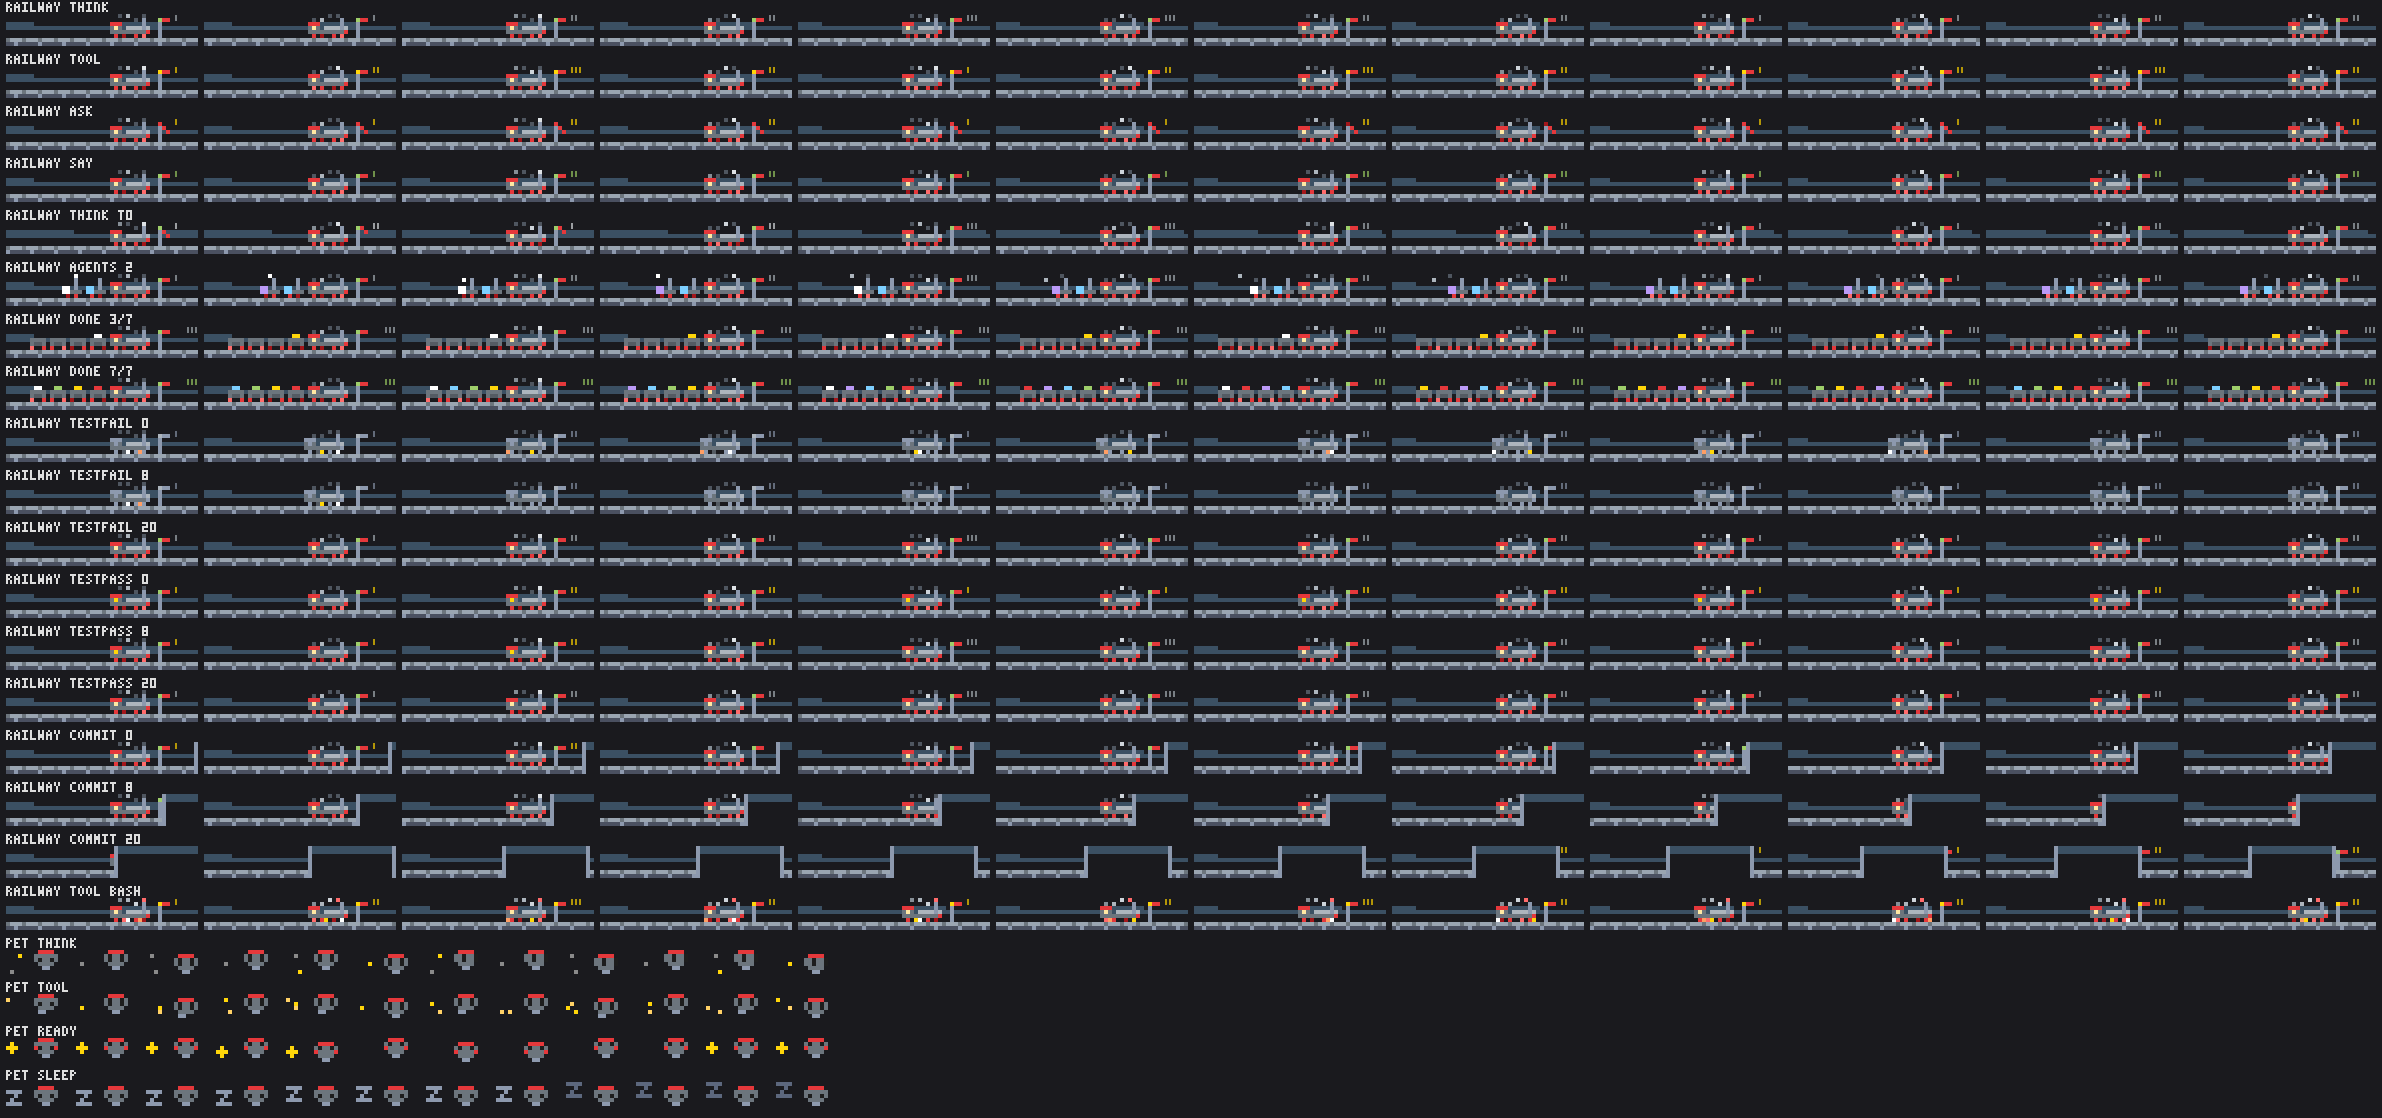
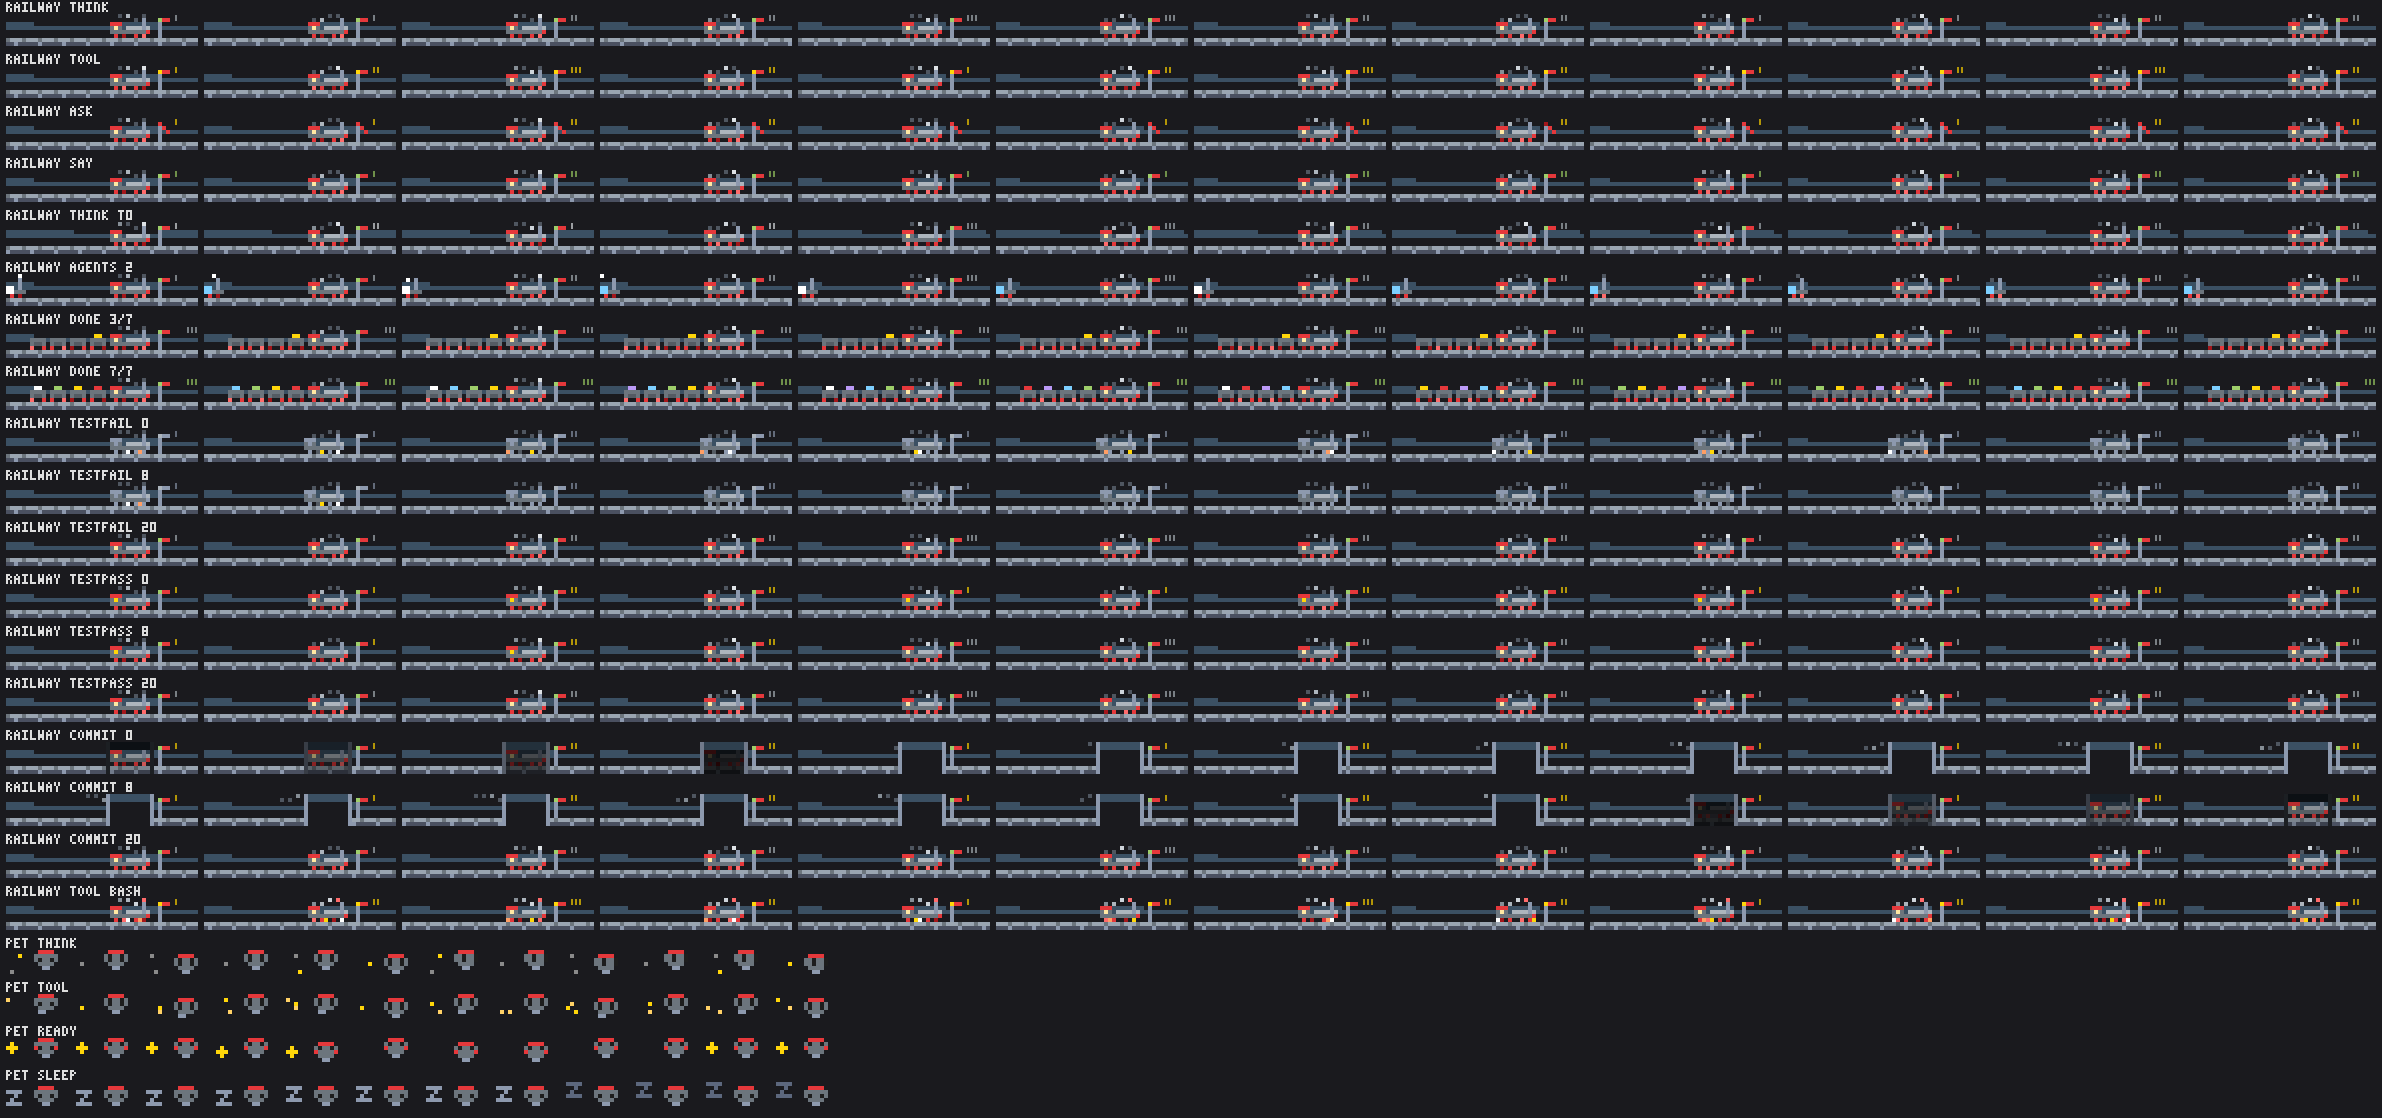
showtime: railway — tunnel mouth around the engine, arm on ask only, agents in fixed slots (review fixes); a commit fades a stone-framed mouth in around the engine over four frames, holds it dark twelve with the steam rolling out of its back mouth a cell a frame (the puffs living a frame longer each

diff --git a/showtime/hooks/themes/railway.ts b/showtime/hooks/themes/railway.ts
@@ -1,32 +1,15 @@
 // Theme: railway. Its scene, its words and its pet.
 //
-// The scene: a steam train (#6c757d, #e5383b accents) standing in the right half of the band and
-// facing right, the world scrolling toward it: dim hills far (pixel rows 2–3, a quarter of the speed),
-// the rails and the bridge's piers near (rows 6–7, a cell a frame), and its own smoke drifting back
-// along the top rows a cell a frame. A puff is born over the funnel every other frame; one in six is a
-// full puff while it idles, one in four in a tool (in the tool's colour), every one on bash, the rest
-// wisps. Its wheels turn on a four-frame cycle in a tool (slowly otherwise), sparks fly on bash. A
-// carriage per task (six at most, fewer on a narrow band, floor-scaled) trails behind it, loaded with a
-// block as the task lands, the newest flashing, all rolling colours at 100%; a `done/total` readout
-// sits at the top right. A signal stands ahead of the engine: its arm drops over three frames while a
-// permission waits and rises over four as the next act begins, its lamp red while asking. A sign right
-// of it reads the act (dots, `?`, notes, the tool's mark). Each subagent (four at most) is a small
-// engine of its own hue at the back of the train, puffing a greeting as it joins and a wisp every
-// twelve frames after. A failed test greys the train, sparks at its wheels and jolts it a cell for ten
-// frames under a `×`; a passed test turns the window and the loads gold under a `★`; a commit sends a
-// tunnel in from the right edge, a cell a frame, that swallows the signal and the train (the engine
-// dark twelve frames) and lets them out the other side.
+// A steam train facing right with the world scrolling toward it (hills far at a quarter, track and
+// bridge near and smoke a cell a frame), a carriage per task, a signal whose arm drops on ask, an
+// agent's engine per subagent in a fixed slot at the back, and a tunnel mouth around the engine on a
+// commit (in four frames, dark twelve, out four).
 //
-// Motion rules (tests/scenes.test.ts): pixel row 3 (the hills) and rows 6–7 (the track) are filled
-// across the width, so the test sees cell rows 0 and 2 only; every vehicle fills row 4 across its own
-// width and stands a column apart from the next, so wheels, sparks and loads change colour, never ink,
-// and a leaving agent's engine only disappears. Every funnel stands in rows 1–3, a run start in cell
-// row 0 that each puff is born over and leaves a cell at a time, and all the puffs drift at the
-// scroll's pace on schedules of `t` alone, so they merge and part only with each other and the
-// funnels; the jolt moves the bodies, never the smoke. The signal's lamp never goes out (it blinks in
-// colour) and the sign changes its ink every other frame. The tunnel is empty cells between two stone
-// columns under a hill roof, so what it hides and uncovers always appears beside a column that stood
-// a cell away the frame before.
+// Motion rules (tests/scenes.test.ts): pixel row 3 (the hills) and rows 6–7 (the track) fill the width,
+// so the test sees cell rows 0 and 2 only; every vehicle fills row 4 across its width a column apart
+// from the next, so wheels, sparks and loads change colour, never ink. Funnels stand in rows 1–3, a run
+// start each puff is born over and leaves a cell at a time on schedules of `t` alone; the jolt moves
+// the bodies, never the smoke. The lamp never goes out and the sign changes its ink every other frame.
 import { canvas, cells, draw, frame, mod, noise, plot, put } from '../cells'
 import type { Canvas, Grid } from '../cells'
 import { SCENE_ROWS } from '../draw'
@@ -46,8 +29,8 @@ const MAX_CARS = 6
 const AGENT_FUNNEL_X = 3
 const AGENT_PITCH = 6
 const MAX_AGENTS = 4
-/** Columns kept free behind the carriages for agent engines on a narrow band. */
-const AGENT_RESERVE = 6
+/** Columns the carriages keep on a narrow band before the agents get slots. */
+const CARS_FIRST = 15
 const HILL_Y = 2
 const RAIL_Y = 6
 const TICK_PITCH = 4
@@ -59,13 +42,15 @@ const PUFF_EVERY = { idle: 6, tool: 4, bash: 2 }
 const WISP_EVERY = 12
 const WISP_LIFE = 4
 const GREET_FRAMES = 8
-/** The signal arm's level by `actAge`: dropping while asking, rising as the next act begins. */
-const ARM_RISE = [2, 1, 1, 0]
+/** The signal arm's level by `actAge` while a permission waits: horizontal, half down, down. */
+const ARM_DROP = [0, 1, 1, 2]
 const FAIL_FRAMES = 20
 const JOLT_FRAMES = 10
 const PASS_FRAMES = 12
-/** The tunnel's length: the engine and twelve more cells, so the engine is dark for twelve frames. */
-const TUNNEL_W = ENGINE_W + 12
+/** The tunnel mouth around the engine: fading in over four frames, dark twelve, fading out over four. */
+const FADE_FRAMES = 4
+const DARK_FRAMES = 12
+const COMMIT_FRAMES = 2 * FADE_FRAMES + DARK_FRAMES
 const DONE_FLASH_FRAMES = 8
 const DONE_ROLL_FRAMES = 16
 const TURN_FRAMES = 4
@@ -122,13 +107,22 @@ const paint = (c: string, isFail: boolean) => (isFail ? DULL[c] ?? c : c)
 const toned = (colors: Record<string, string>, isFail: boolean) =>
   Object.fromEntries(Object.entries(colors).map(([k, c]) => [k, paint(c, isFail)]))
 
-/** The engine's left column, how many carriages trail it and how many agent engines fit behind them. */
-function layout(w: number, s: Signals): { engineX: number; cars: number; carsL: number; agents: number } {
+/** The engine, carriages and agent slots by the width alone: the slots sit left of the widest carriage
+ * zone, so a change of `total` never moves an agent engine. */
+function layout(w: number, s: Signals): { engineX: number; cars: number; slotsL: number; agents: number } {
   const engineX = Math.max(0, w - ENGINE_W - RIGHT_ZONE)
-  const cars = Math.min(s.total, MAX_CARS, Math.max(0, Math.floor((engineX - AGENT_RESERVE) / CAR_PITCH)))
-  const carsL = engineX - cars * CAR_PITCH
-  const agents = Math.min(s.agents, MAX_AGENTS, Math.max(0, Math.floor(carsL / AGENT_PITCH)))
-  return { engineX, cars, carsL, agents }
+  // One slot whenever an agent's engine fits at all, more once the carriages have their first columns.
+  const more = Math.floor((engineX - CARS_FIRST) / AGENT_PITCH)
+  const slots = Math.min(MAX_AGENTS, Math.max(engineX >= AGENT_PITCH ? 1 : 0, more))
+  const carsMax = Math.min(MAX_CARS, Math.max(0, Math.floor((engineX - slots * AGENT_PITCH) / CAR_PITCH)))
+  const slotsL = engineX - carsMax * CAR_PITCH
+  return { engineX, cars: Math.min(s.total, carsMax), slotsL, agents: Math.min(s.agents, slots) }
+}
+
+/** A `#rrggbb` colour at `f` of its brightness. */
+function shade(c: string, f: number): string {
+  const ch = (i: number) => Math.round(parseInt(c.slice(i, i + 2), 16) * f).toString(16).padStart(2, '0')
+  return '#' + ch(1) + ch(3) + ch(5)
 }
 
 /** The far hills: a silhouette on pixel rows 2–3, row 3 always filled, drifting at `far`. */
@@ -150,37 +144,37 @@ function track(cv: Canvas, t: number): void {
 }
 
 /** The engine's smoke: a puff born over the funnel at `fx` every other frame, drifting back a cell a
- * frame for eight; one in `every` a full puff in `color` fading to grey, the rest wisps (all wisps
- * while a failed test smarts). */
-function smoke(cv: Canvas, t: number, fx: number, every: number, color: string, isFail: boolean): void {
-  for (let age = mod(t, 2); age < PUFF_LIFE; age += 2) {
+ * frame for `life` frames; one in `every` a full puff in `color` fading to grey, the rest wisps (all
+ * wisps while a failed test smarts). */
+function smoke(cv: Canvas, t: number, fx: number, every: number, color: string, isFail: boolean, life: number): void {
+  for (let age = mod(t, 2); age < life; age += 2) {
     const full = !isFail && mod(t - age, every) === 0
-    plot(cv, fx - age, PUFF_ROWS[age]!, !full ? WISP : age < 2 ? color : SMOKE[age >> 1]!)
+    plot(cv, fx - age, frame(PUFF_ROWS, age), !full ? WISP : age < 2 ? color : SMOKE[Math.min(3, age >> 1)]!)
   }
 }
 
-/** The signal ahead of the engine: a pole with a lamp, its arm horizontal, dropped a level a frame
- * while a permission waits and rising over four frames as the next act begins. */
+/** The signal ahead of the engine: a pole with a lamp, its arm horizontal, dropping over four frames
+ * as a permission starts to wait and down until it is answered. */
 function signal(cv: Canvas, t: number, s: Signals, poleX: number, isFail: boolean): void {
   for (let y = 1; y <= 5; y++) plot(cv, poleX, y, STEEL)
-  const level = s.act === 'ask' ? Math.min(2, s.actAge) : s.actAge < ARM_RISE.length ? ARM_RISE[s.actAge]! : 0
+  const level = s.act === 'ask' ? frame(ARM_DROP, Math.min(s.actAge, ARM_DROP.length - 1)) : 0
   plot(cv, poleX + 1, level > 1 ? 2 : 1, paint(RED, isFail))
   plot(cv, poleX + 2, 1 + level, paint(RED, isFail))
   const lamp = s.act === 'ask' ? (mod(t, 8) < 6 ? RED : RED_DARK) : s.act === 'tool' ? GOLD : GREEN
   plot(cv, poleX, 1, isFail ? LIGHT : lamp)
 }
 
-/** The tunnel on a commit: its mouth in from the right edge a cell a frame, every pixel under it
- * cleared, a stone column at each end and a hill roof along the top rows. Returns its columns. */
-function tunnel(cv: Canvas, age: number): [number, number] {
-  const x0 = cv.w - 1 - age
-  const x1 = x0 + TUNNEL_W
+/** The tunnel mouth on a commit, around the engine from `x0` to `x1`, `f` of the way in: stone columns
+ * and a hill roof brighten as everything inside dims, cleared to dark at `f` = 1. */
+function tunnel(cv: Canvas, x0: number, x1: number, f: number): void {
   for (let x = Math.max(0, x0); x < Math.min(cv.w, x1); x++) {
-    for (let y = 0; y < cv.h; y++) cv.px[y * cv.w + x] = undefined
-    if (x === x0 || x === x1 - 1) for (let y = 0; y < cv.h; y++) plot(cv, x, y, STEEL)
-    else for (let y = 0; y < 2; y++) plot(cv, x, y, HILL)
+    const stone = x === x0 || x === x1 - 1
+    for (let y = 0; y < cv.h; y++) {
+      const i = y * cv.w + x
+      if (stone || y < 2) cv.px[i] = shade(stone ? STEEL : HILL, f)
+      else cv.px[i] = cv.px[i] && f < 1 ? shade(cv.px[i]!, 1 - f) : undefined
+    }
   }
-  return [x0, x1]
 }
 
 /** The sign right of the signal: the news first, else the act, dots while the act turns. Each changes
@@ -206,11 +200,14 @@ export function railwayScene(t: number, w: number, s: Signals): Grid {
   const isFail = s.news === 'testFail' && s.newsAge < FAIL_FRAMES
   const jolting = isFail && s.newsAge < JOLT_FRAMES
   const isPass = s.news === 'testPass' && s.newsAge < PASS_FRAMES
-  const isCommit = s.news === 'commit' && s.newsAge < w + TUNNEL_W
+  const isCommit = s.news === 'commit' && s.newsAge < COMMIT_FRAMES
   const allDone = s.total > 0 && s.done >= s.total
   const age = Math.min(s.actAge, s.toolAge)
-  const { engineX, cars, carsL, agents } = layout(w, s)
-  const lit = s.total > cars ? Math.floor(s.done * cars / s.total) : Math.min(s.done, cars)
+  const { engineX, cars, slotsL, agents } = layout(w, s)
+  const litOf = (done: number) => (s.total > cars ? Math.floor(done * cars / s.total) : Math.min(done, cars))
+  const lit = litOf(s.done)
+  // The newest load flashes only when this task lit a carriage (floor-scaled, not every task does).
+  const newLoad = lit > litOf(s.done - 1) && s.doneAge < DONE_FLASH_FRAMES
   // The jolt: the whole train a cell back on odd frames while the brakes screech.
   const dx = jolting && mod(s.newsAge, 2) === 1 ? -1 : 0
   const ex = engineX + dx
@@ -221,10 +218,10 @@ export function railwayScene(t: number, w: number, s: Signals): Grid {
   // Layer 1: the hills, far and slow; layer 2: the track, a cell a frame.
   hills(cv, t >> 2)
   track(cv, t)
-  // Layer 3: the agents' engines at the back, each puffing a wisp every twelve frames out of step; the
-  // newest flashes its cab and puffs a greeting as it joins (and again, harmlessly, when one leaves).
+  // Layer 3: the agents' engines in fixed slots, a wisp every twelve frames out of step; the newest flashes
+  // its cab and puffs a greeting as it joins (and again, harmlessly, when one leaves).
   for (let i = 0; i < agents; i++) {
-    const x = carsL - AGENT_PITCH * (i + 1)
+    const x = slotsL - AGENT_PITCH * (i + 1)
     const newest = i === agents - 1 && s.agentsAge < GREET_FRAMES
     const cab = newest && mod(s.agentsAge, 2) === 0 ? WHITE : paint(AGENT_HUES[i]!, isFail)
     draw(cv, x + dx, 1, AGENT, { ...toned(AGENT_COLORS, isFail), C: cab })
@@ -242,7 +239,7 @@ export function railwayScene(t: number, w: number, s: Signals): Grid {
     CAR_WHEELS.forEach((wx, k) => plot(cv, x + wx, 5, paint(frame(WHEEL_SPIN, spin + k + j), isFail)))
     if (j >= lit) continue
     let load = paint(LOADS[j % LOADS.length]!, isFail)
-    if (j === lit - 1 && s.doneAge < DONE_FLASH_FRAMES && mod(s.doneAge, 2) === 0) load = WHITE
+    if (j === lit - 1 && newLoad && mod(s.doneAge, 2) === 0) load = WHITE
     else if (allDone && s.doneAge < DONE_ROLL_FRAMES) load = frame(PALETTE, j + (s.doneAge >> 1))
     else if (isPass && mod(t, 2) === 0) load = GOLD
     plot(cv, x + 1, 2, load)
@@ -258,20 +255,22 @@ export function railwayScene(t: number, w: number, s: Signals): Grid {
   }
   // Layer 6: the smoke, in the tool's colour while one runs, unmoved by the jolt; layer 7: the signal.
   const every = bash ? PUFF_EVERY.bash : isTool ? PUFF_EVERY.tool : PUFF_EVERY.idle
-  smoke(cv, t, engineX + FUNNEL_X, every, isTool ? PUFF_TOOL[s.tool ?? 'other'] : SMOKE[0]!, isFail)
+  // On a commit the puffs live a frame longer each frame, then shorter: steam rolls out of the back mouth.
+  const life = PUFF_LIFE + (isCommit ? Math.min(s.newsAge, COMMIT_FRAMES - s.newsAge) : 0)
+  smoke(cv, t, engineX + FUNNEL_X, every, isTool ? PUFF_TOOL[s.tool ?? 'other'] : SMOKE[0]!, isFail, life)
   signal(cv, t, s, poleX, isFail)
-  // The tunnel over everything on a commit.
-  const [tx0, tx1] = isCommit ? tunnel(cv, s.newsAge) : [w, w]
-  const covered = (x0: number, x1: number) => x0 < tx1 && x1 > tx0
+  // The tunnel mouth around the engine on a commit: fading in, dark twelve frames, fading out.
+  if (isCommit) {
+    const f = Math.min(FADE_FRAMES + 1, s.newsAge + 1, COMMIT_FRAMES - s.newsAge) / (FADE_FRAMES + 1)
+    tunnel(cv, engineX - 1, engineX + ENGINE_W + 1, f)
+  }
 
   const g = cells(cv)
   const readout = s.total > 0 ? `${s.done}/${s.total}` : ''
   const readoutX = w - readout.length
-  if (readout && !covered(readoutX, w)) {
-    put(g, readoutX, 0, readout, { c: isPass ? GOLD : allDone ? GREEN : LIGHT, b: true })
-  }
-  // The sign; it yields to the readout when the band is narrow, and hides inside the tunnel.
-  if ((!readout || signX + SIGN_W <= readoutX - 1) && !covered(signX, signX + SIGN_W)) {
+  if (readout) put(g, readoutX, 0, readout, { c: isPass ? GOLD : allDone ? GREEN : LIGHT, b: true })
+  // The sign; it yields to the readout when the band is narrow.
+  if (!readout || signX + SIGN_W <= readoutX - 1) {
     const [text, c] = sign(s, t, age, isFail, isPass, isCommit)
     put(g, signX, 0, text, { c, b: s.act !== 'think' || isFail || isPass || isCommit })
   }
